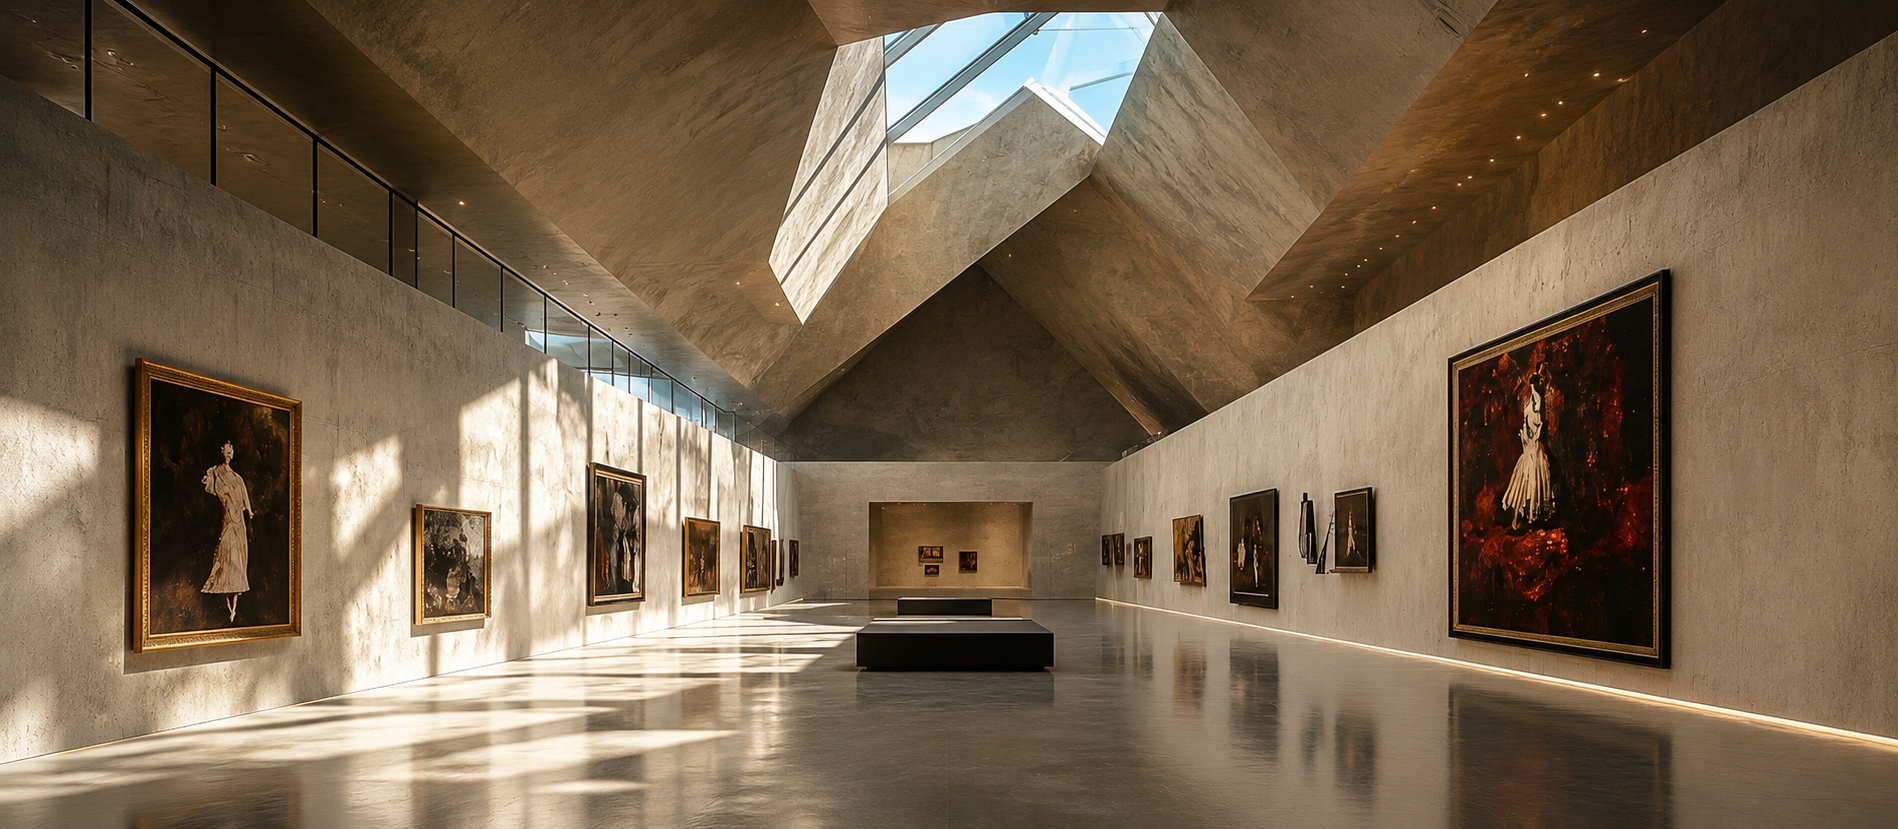
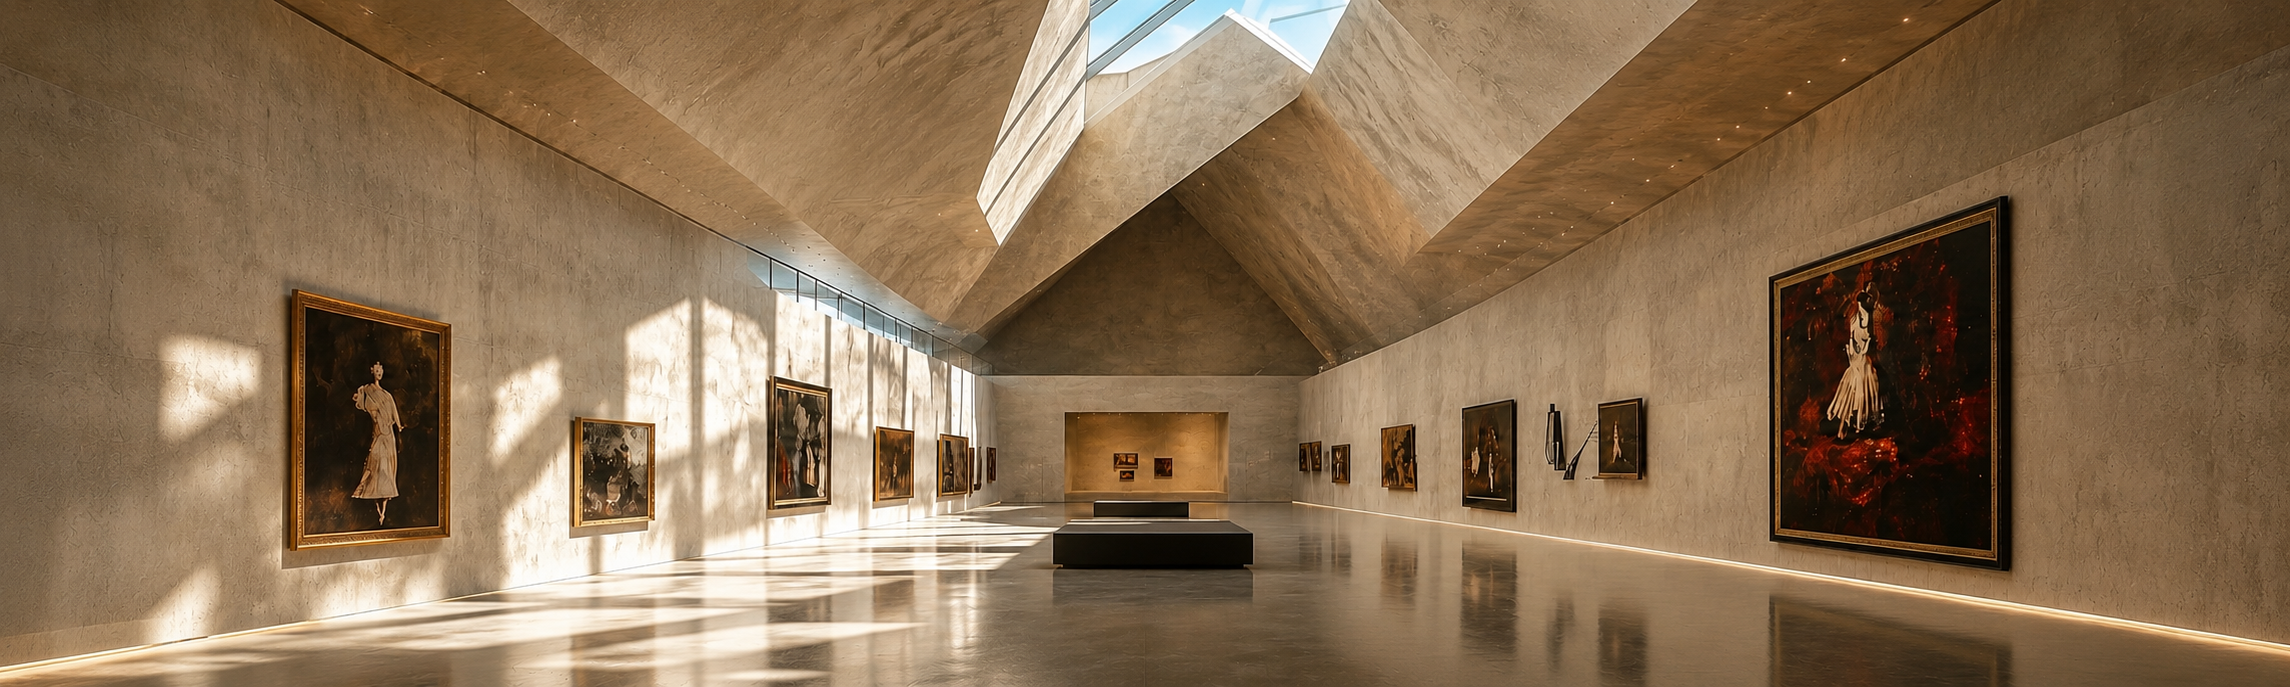
캐러셀 수정

diff --git a/WithDayFront/src/page/home/HomeCarousel.jsx b/WithDayFront/src/page/home/HomeCarousel.jsx
@@ -38,7 +38,7 @@ const CAROUSEL_ITEMS = [
   {
     id: "withday-culture",
     image: "/concert.png",
-    title: "공연 끝나고 ‘와 좋았다’만 하기 아쉽다면",
+    title: "공연 끝나고 ‘와 지웅짜 좋았다’만 하기 아쉽다면",
     description: "같은 취향의 위트와 공연·축제·전시 이야기를 나눠보세요.",
   },
   {